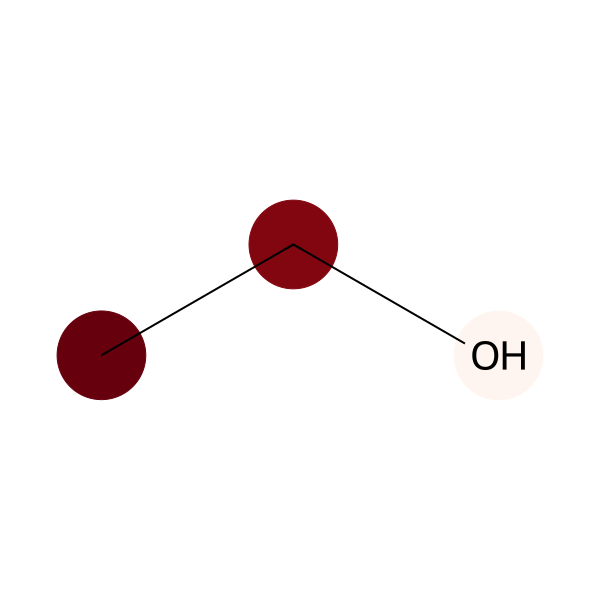
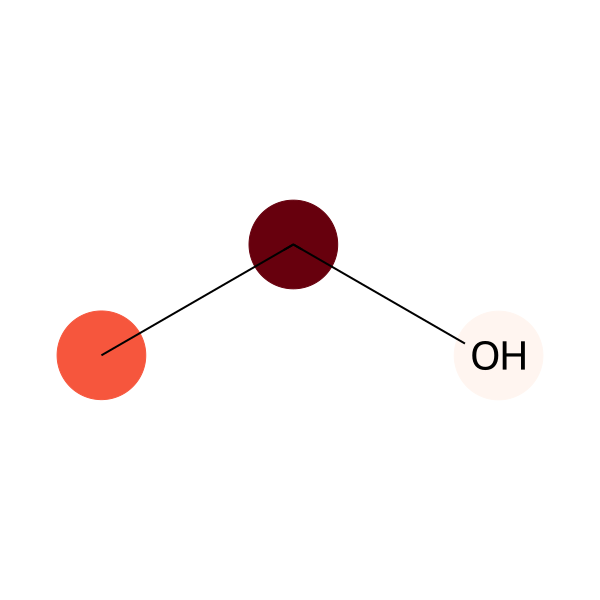
Add Demo GIF

Changed region(s): [[0.09, 0.51, 0.27, 0.69], [0.39, 0.33, 0.57, 0.48]]

diff --git a/README.md b/README.md
@@ -87,6 +87,10 @@ Features:
 - View model benchmark results
 - Interactive user interface built with React and Vite
 
+### Live Demo
+
+![Demo](c:\Projects\GNN.gif)
+
 #### Prediction Example
 
 ![Testosterone](c:\Users\svage\OneDrive\Pictures\Screenshots\Screenshot 2026-06-13 020122.png)